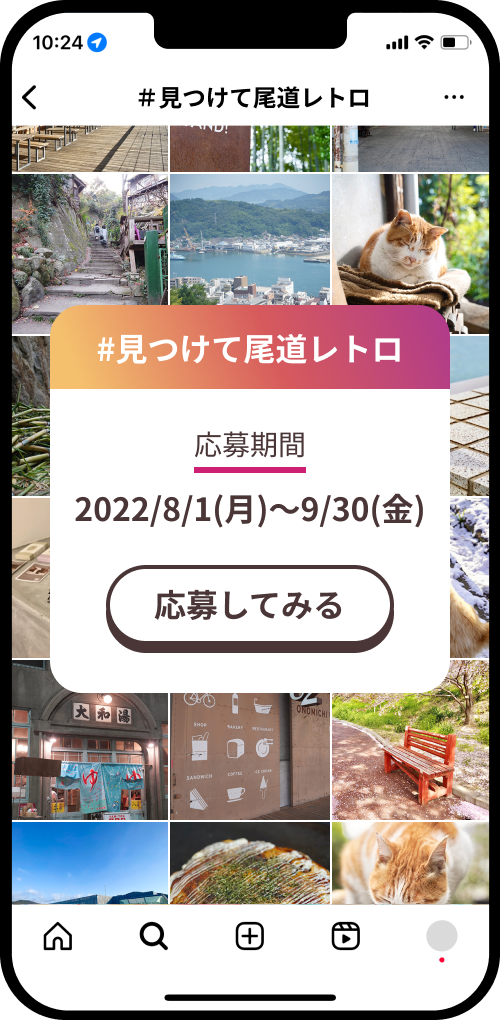
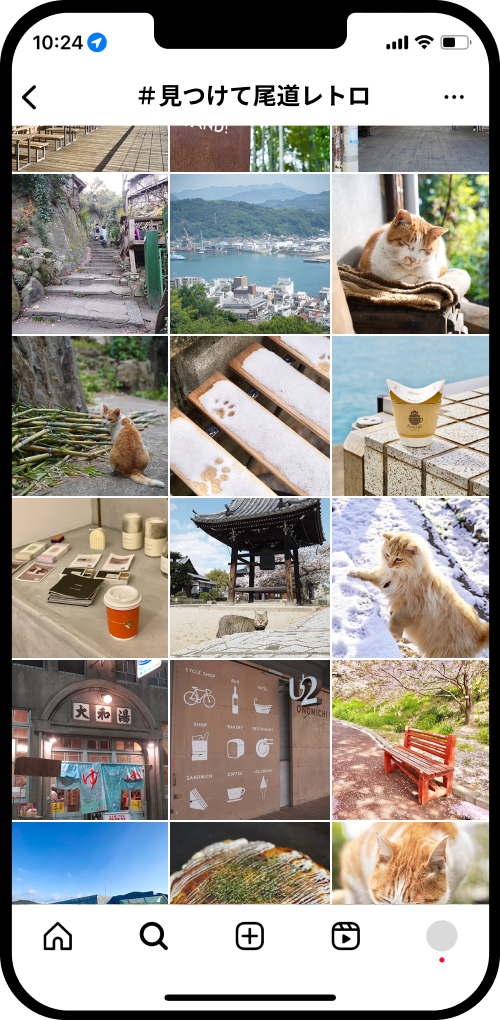
Handled the feedback

Changed region(s): [[0.09, 0.2735, 0.9, 0.699], [0.27, 0.0608, 0.63, 0.1216], [0.66, 0.0608, 0.72, 0.1216]]

diff --git a/css/style.css b/css/style.css
@@ -421,19 +421,111 @@ a {
   }
 }
 
+.fv__box {
+  position: absolute;
+  top: calc(50% - 36px);
+  left: 50%;
+  -webkit-transform: translateX(-50%);
+          transform: translateX(-50%);
+  z-index: 130;
+  text-align: center;
+  max-width: 160px;
+  width: 100%;
+  background: #ffffff;
+  border-radius: 12.8px;
+  overflow: hidden;
+}
+@media screen and (min-width: 900px) {
+  .fv__box {
+    top: calc(50% - 95px);
+    max-width: 200px;
+    border-radius: 16px;
+  }
+}
+
+.fv__box-title {
+  padding: 6.4px 9.6px;
+  color: #ffffff;
+  font-size: 12.8px;
+  font-weight: 700;
+  background: linear-gradient(265deg, #ac3790 -3.52%, #d65a5c 44.94%, #f4c06d 92.38%);
+}
+@media screen and (min-width: 900px) {
+  .fv__box-title {
+    font-size: 16px;
+    padding: 8px 12px;
+  }
+}
+
+.fv__box-content {
+  text-align: center;
+  padding-block: 12.8px 19.2px;
+}
+@media screen and (min-width: 900px) {
+  .fv__box-content {
+    padding-block: 15px 24px;
+  }
+}
+
+.fv__text {
+  display: inline-block;
+  color: #4a3636;
+  font-size: 12px;
+  font-weight: 400;
+  border-bottom: 3px solid #ce2073;
+}
+@media screen and (min-width: 900px) {
+  .fv__text {
+    font-size: 14px;
+  }
+}
+
+.fv__date {
+  margin-top: 3px;
+  color: #4a3636;
+  font-size: 12px;
+  font-weight: 700;
+}
+@media screen and (min-width: 900px) {
+  .fv__date {
+    margin-top: 4px;
+    font-size: 16px;
+  }
+}
+
+.fv__button {
+  margin-top: 12.8px;
+}
+@media screen and (min-width: 900px) {
+  .fv__button {
+    margin-top: 16px;
+  }
+}
+@media not screen and (min-width: 900px) {
+  .fv__button a {
+    padding: 2px 22px 4px;
+  }
+}
+@media screen and (min-width: 900px) {
+  .fv__button a {
+    font-size: 16px;
+  }
+}
+
 .fv__image-smartphone {
   position: relative;
   margin-inline: auto;
   z-index: 120;
   padding-top: 103px;
   padding-bottom: 11px;
-  width: 59.7014925373%;
+  max-width: 200px;
+  width: 100%;
 }
 @media screen and (min-width: 900px) {
   .fv__image-smartphone {
     padding-top: 33px;
     padding-bottom: 17px;
-    width: 29.4811320755%;
+    max-width: 250px;
   }
 }
 
@@ -442,7 +534,7 @@ a {
   z-index: 110;
   top: 7px;
   left: 0;
-  width: 42.3880597015%;
+  width: 142px;
 }
 @media screen and (min-width: 900px) {
   .fv__image-fukidashi {
@@ -457,7 +549,7 @@ a {
   z-index: 110;
   top: 0;
   right: 7.4626865672%;
-  width: 32.8358208955%;
+  width: 110px;
 }
 @media screen and (min-width: 900px) {
   .fv__image-present {
@@ -472,7 +564,7 @@ a {
   z-index: 130;
   bottom: 0;
   left: 0;
-  width: 26.9432835821%;
+  width: 90.26px;
 }
 @media screen and (min-width: 900px) {
   .fv__image-food {
@@ -487,7 +579,7 @@ a {
   z-index: 130;
   bottom: 58px;
   right: 0;
-  width: 18.5074626866%;
+  width: 62px;
 }
 @media screen and (min-width: 900px) {
   .fv__image-cat-1 {
@@ -502,7 +594,7 @@ a {
   z-index: 140;
   bottom: 0;
   right: 2.6865671642%;
-  width: 29.2537313433%;
+  width: 98px;
 }
 @media screen and (min-width: 900px) {
   .fv__image-cat-2 {

diff --git a/sass/style.scss b/sass/style.scss
@@ -438,18 +438,108 @@ a {
   }
 }
 
+.fv__box {
+  position: absolute;
+  top: calc(50% - 36px);
+  left: 50%;
+  transform: translateX(-50%);
+  z-index: 130;
+  text-align: center;
+  max-width: 160px;
+  width: 100%;
+  background: $color--white;
+  border-radius: 12.8px;
+  overflow: hidden;
+
+  @include mq(pc) {
+    top: calc(50% - 95px);
+    max-width: 200px;
+    border-radius: 16px;
+  }
+}
+
+.fv__box-title {
+  padding: 6.4px 9.6px;
+  color: $color--white;
+  font-size: 12.8px;
+  font-weight: 700;
+  background: linear-gradient(
+    265deg,
+    #ac3790 -3.52%,
+    #d65a5c 44.94%,
+    #f4c06d 92.38%
+  );
+
+  @include mq(pc) {
+    font-size: 16px;
+    padding: 8px 12px;
+  }
+}
+
+.fv__box-content {
+  text-align: center;
+  padding-block: 12.8px 19.2px;
+
+  @include mq(pc) {
+    padding-block: 15px 24px;
+  }
+}
+
+.fv__text {
+  display: inline-block;
+  color: $color--black;
+  font-size: 12px;
+  font-weight: 400;
+  border-bottom: 3px solid $color--accent-1;
+
+  @include mq(pc) {
+    font-size: 14px;
+  }
+}
+
+.fv__date {
+  margin-top: 3px;
+  color: $color--black;
+  font-size: 12px;
+  font-weight: 700;
+
+  @include mq(pc) {
+    margin-top: 4px;
+    font-size: 16px;
+  }
+}
+
+.fv__button {
+  margin-top: 12.8px;
+
+  @include mq(pc) {
+    margin-top: 16px;
+  }
+
+  a {
+    @include mq(sp) {
+      padding: 2px 22px 4px;
+    }
+
+    @include mq(pc) {
+      font-size: 16px;
+    }
+  }
+}
+
 .fv__image-smartphone {
   position: relative;
   margin-inline: auto;
   z-index: 120;
   padding-top: 103px;
   padding-bottom: 11px;
-  width: calc(200px / $fv-inner-width-sp * 100%);
+  max-width: 200px;
+  width: 100%;
 
   @include mq(pc) {
     padding-top: 33px;
     padding-bottom: 17px;
-    width: calc(250px / $fv-inner-width-pc * 100%);
+    max-width: 250px;
   }
 }
 
@@ -458,7 +548,7 @@ a {
   z-index: 110;
   top: 7px;
   left: 0;
-  width: calc(142px / $fv-inner-width-sp * 100%);
+  width: 142px;
 
   @include mq(pc) {
     top: 0;
@@ -472,7 +562,7 @@ a {
   z-index: 110;
   top: 0;
   right: calc(25px / $fv-inner-width-sp * 100%);
-  width: calc(110px / $fv-inner-width-sp * 100%);
+  width: 110px;
 
   @include mq(pc) {
     top: 17px;
@@ -486,7 +576,7 @@ a {
   z-index: 130;
   bottom: 0;
   left: 0;
-  width: calc(90.26px / $fv-inner-width-sp * 100%);
+  width: 90.26px;
 
   @include mq(pc) {
     bottom: 1px;
@@ -500,7 +590,7 @@ a {
   z-index: 130;
   bottom: 58px;
   right: 0;
-  width: calc(62px / $fv-inner-width-sp * 100%);
+  width: 62px;
 
   @include mq(pc) {
     bottom: 61px;
@@ -514,7 +604,7 @@ a {
   z-index: 140;
   bottom: 0;
   right: calc(9px / $fv-inner-width-sp * 100%);
-  width: calc(98px / $fv-inner-width-sp * 100%);
+  width: 98px;
 
   @include mq(pc) {
     bottom: -43px;

diff --git a/index.html b/index.html
@@ -120,6 +120,14 @@
         </picture>
       </h2>
       <div class="fv__images">
+        <div class="fv__box">
+          <p class="fv__box-title">#見つけて尾道レトロ</p>
+          <div class="fv__box-content">
+            <p class="fv__text">応募期間</p>
+            <p class="fv__date">2022/8/1(月)〜9/30(金)</p>
+            <div class="fv__button"><a href="#step" class="button button--small">応募してみる</a></div>
+          </div>
+        </div>
         <div class="fv__image-smartphone">
           <picture>
             <source media="(min-width: 900px)" srcset="./img/fv-smartphone.png" />
